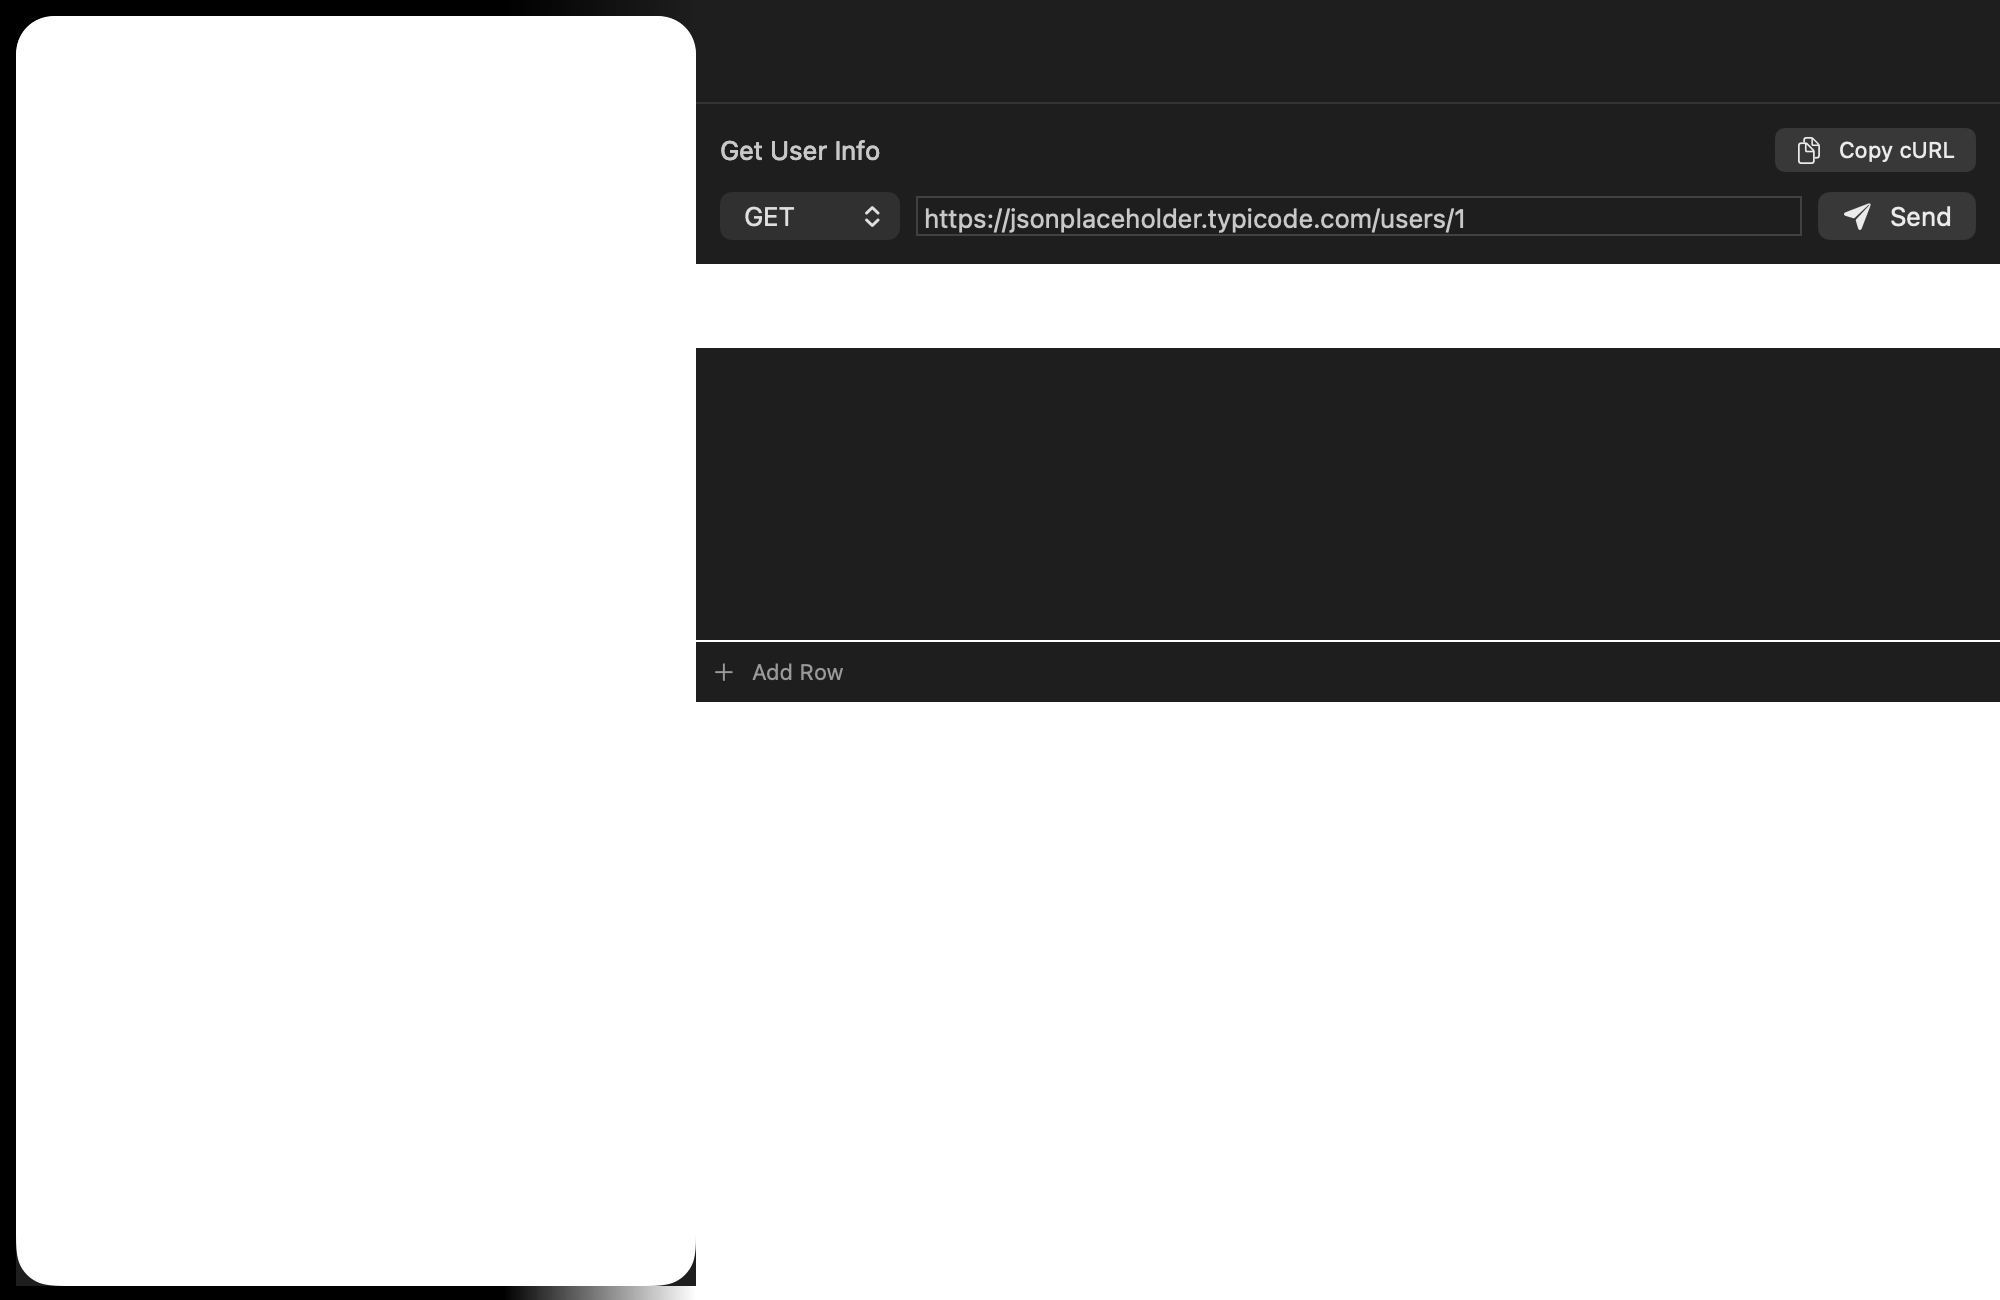
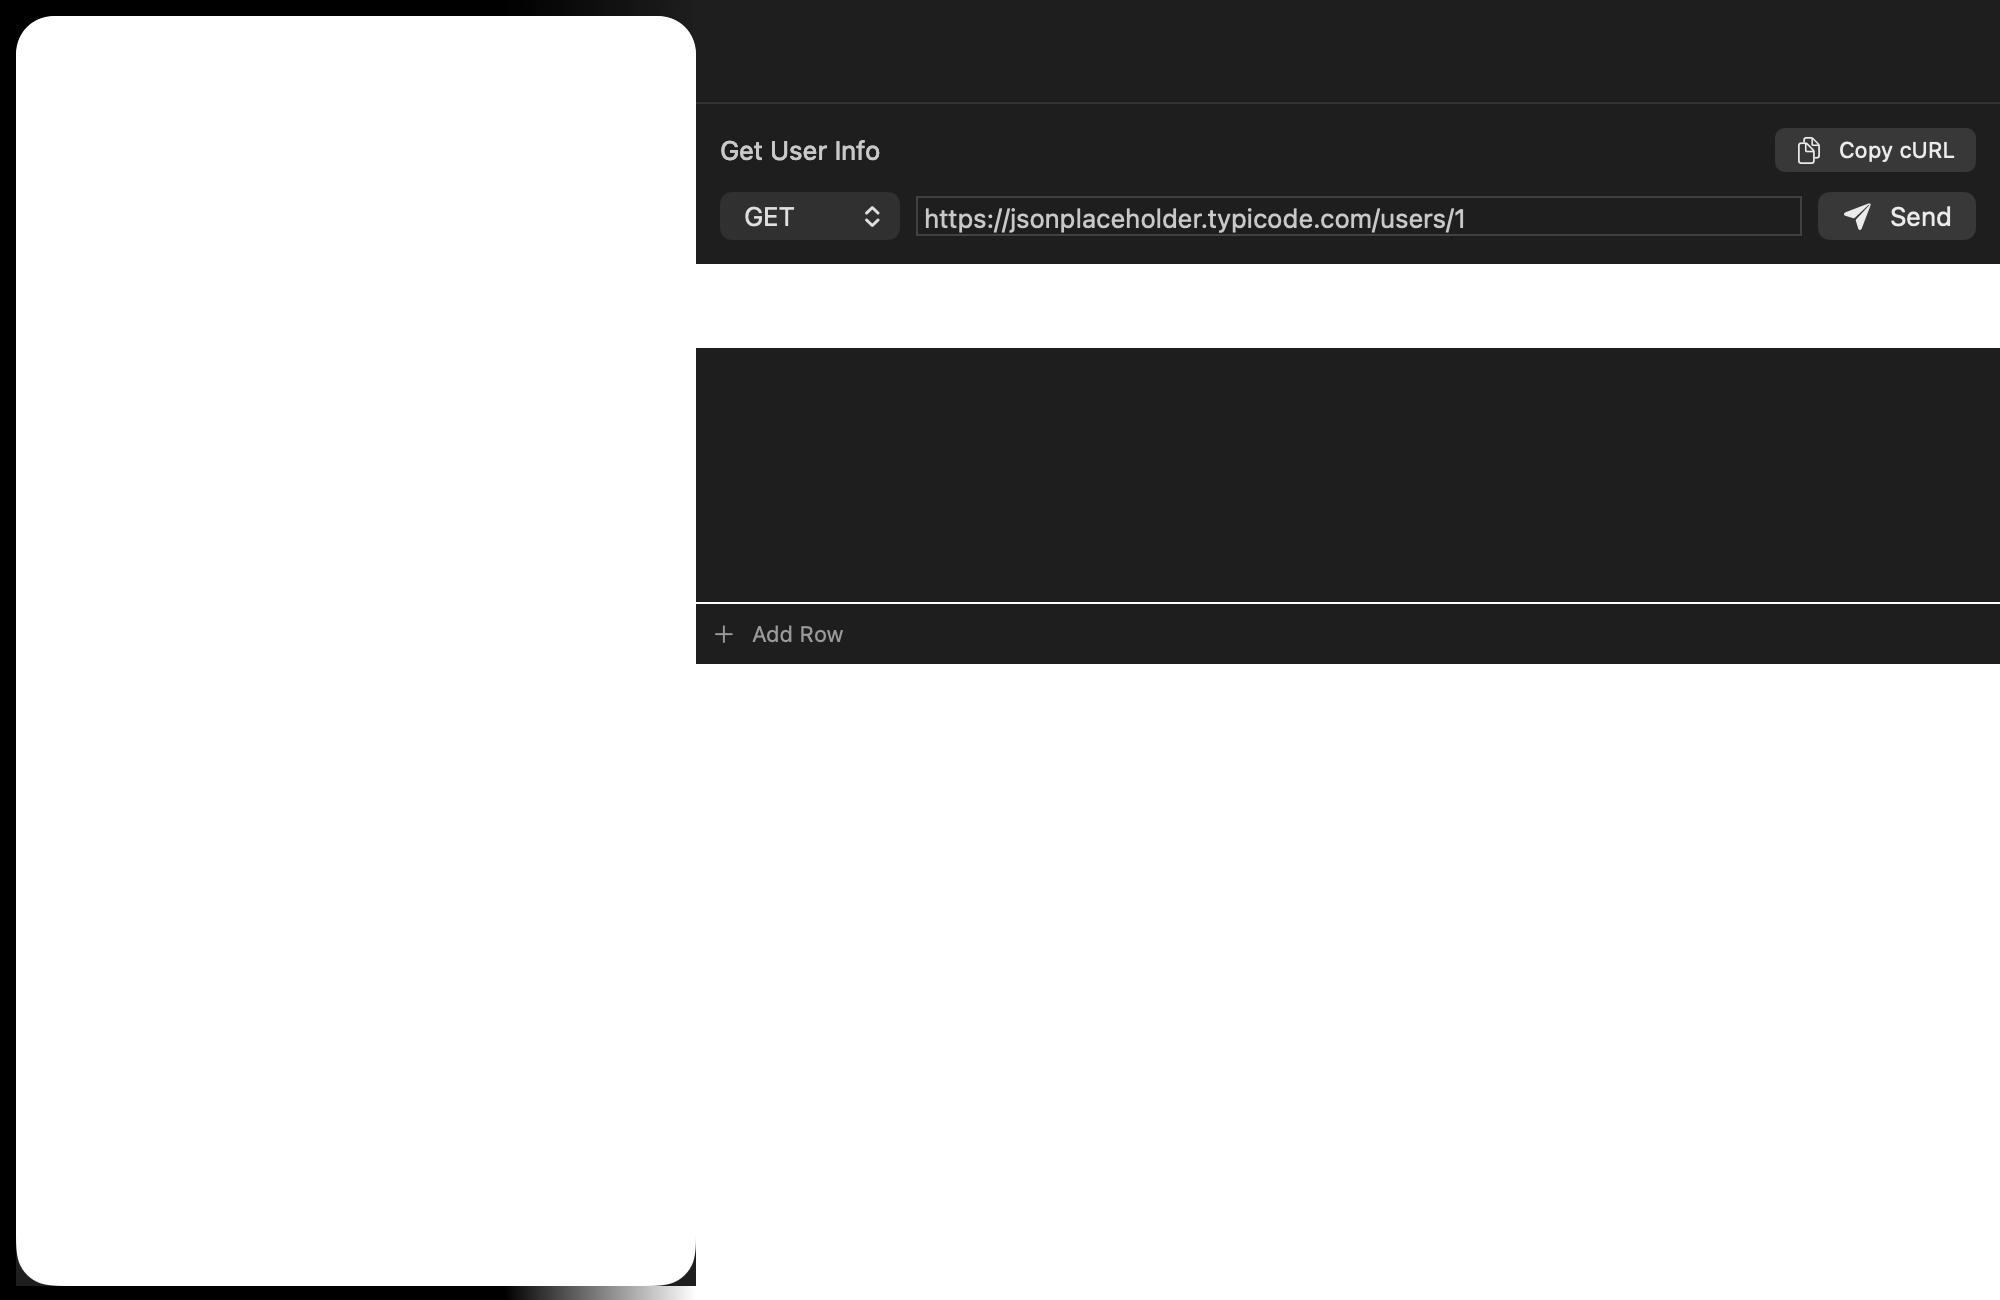
Add resizable draggable dividers across all panes and update Execute Tool button to green with tooltip

Changed region(s): [[0.341, 0.4615, 1.0, 0.5538]]

diff --git a/Sources/Post/Views/Components/DraggableDivider.swift b/Sources/Post/Views/Components/DraggableDivider.swift
@@ -1,0 +1,74 @@
+import SwiftUI
+import AppKit
+
+public struct DraggableDivider: View {
+    @Binding public var width: CGFloat
+    public var minWidth: CGFloat
+    public var maxWidth: CGFloat
+
+    public init(width: Binding<CGFloat>, minWidth: CGFloat = 180, maxWidth: CGFloat = 500) {
+        self._width = width
+        self.minWidth = minWidth
+        self.maxWidth = maxWidth
+    }
+
+    public var body: some View {
+        ZStack {
+            Rectangle()
+                .fill(Color(nsColor: .separatorColor))
+                .frame(width: 1)
+        }
+        .frame(width: 7)
+        .contentShape(Rectangle())
+        .onHover { inside in
+            if inside {
+                NSCursor.resizeLeftRight.push()
+            } else {
+                NSCursor.pop()
+            }
+        }
+        .gesture(
+            DragGesture(minimumDistance: 1)
+                .onChanged { value in
+                    let newWidth = width + value.translation.width
+                    width = max(minWidth, min(maxWidth, newWidth))
+                }
+        )
+    }
+}
+
+public struct DraggableHeightDivider: View {
+    @Binding public var height: CGFloat
+    public var minHeight: CGFloat
+    public var maxHeight: CGFloat
+
+    public init(height: Binding<CGFloat>, minHeight: CGFloat = 150, maxHeight: CGFloat = 600) {
+        self._height = height
+        self.minHeight = minHeight
+        self.maxHeight = maxHeight
+    }
+
+    public var body: some View {
+        ZStack {
+            Rectangle()
+                .fill(Color(nsColor: .separatorColor))
+                .frame(height: 1)
+        }
+        .frame(height: 7)
+        .contentShape(Rectangle())
+        .onHover { inside in
+            if inside {
+                NSCursor.resizeUpDown.push()
+            } else {
+                NSCursor.pop()
+            }
+        }
+        .gesture(
+            DragGesture(minimumDistance: 1)
+                .onChanged { value in
+                    let newHeight = height + value.translation.height
+                    height = max(minHeight, min(maxHeight, newHeight))
+                }
+        )
+    }
+}

diff --git a/Sources/Post/Views/MCPInspectorView.swift b/Sources/Post/Views/MCPInspectorView.swift
@@ -12,6 +12,7 @@ struct MCPInspectorView: View {
     @State private var toolResultText: String = ""
     @State private var toolResultError: Bool = false
     @State private var executionDurationMs: Double = 0.0
+    @State private var toolsListWidth: CGFloat = 260
 
     var selectedServer: MCPServer? {
         store.mcpServers.first(where: { $0.id == store.selectedMCPServerID })
@@ -86,9 +87,9 @@ struct MCPInspectorView: View {
                     }
                     .listStyle(.inset)
                 }
-                .frame(width: 260)
+                .frame(width: toolsListWidth)
 
-                Divider()
+                DraggableDivider(width: $toolsListWidth, minWidth: 180, maxWidth: 500)
 
                 // Right Tool Execution & Result Inspector
                 if let tool = toolsList.first(where: { $0.name == selectedToolName }) {
@@ -108,7 +109,7 @@ struct MCPInspectorView: View {
                                     await callTool(name: tool.name)
                                 }
                             }) {
-                                HStack {
+                                HStack(spacing: 6) {
                                     if isExecutingTool {
                                         ProgressView().controlSize(.small)
                                     } else {
@@ -116,10 +117,12 @@ struct MCPInspectorView: View {
                                     }
                                     Text("Execute Tool")
                                 }
+                                .padding(.horizontal, 4)
                             }
                             .focusable(false)
                             .buttonStyle(.borderedProminent)
-                            .tint(.purple)
+                            .tint(.green)
+                            .help("Execute Tool (JSON-RPC tools/call)")
                             .disabled(isExecutingTool)
                         }
                         .padding(12)

diff --git a/Sources/Post/Views/WebhookServerView.swift b/Sources/Post/Views/WebhookServerView.swift
@@ -4,6 +4,7 @@ struct WebhookServerView: View {
     @ObservedObject var store: PostStore
     @ObservedObject var server: WebhookServer
     @State private var selectedPayloadID: UUID?
+    @State private var payloadsListWidth: CGFloat = 260
 
     init(store: PostStore) {
         self.store = store
@@ -91,10 +92,10 @@ struct WebhookServerView: View {
                         .tag(payload.id)
                     }
                 }
-                .frame(width: 260)
+                .frame(width: payloadsListWidth)
                 .listStyle(.inset)
 
-                Divider()
+                DraggableDivider(width: $payloadsListWidth, minWidth: 180, maxWidth: 500)
 
                 // Right Payload Inspector
                 if let payload = store.webhookServer.payloads.first(where: { $0.id == selectedPayloadID }) {

diff --git a/Sources/Post/Views/MainContentView.swift b/Sources/Post/Views/MainContentView.swift
@@ -2,6 +2,7 @@ import SwiftUI
 
 struct MainContentView: View {
     @StateObject var store: PostStore
+    @State private var requestPaneHeight: CGFloat = 280
 
     init(store: PostStore = PostStore()) {
         _store = StateObject(wrappedValue: store)
@@ -24,7 +25,8 @@ struct MainContentView: View {
             if let reqBinding = Binding($store.selectedRequest) {
                 VStack(spacing: 0) {
                     RequestBuilderView(store: store, request: reqBinding)
-                    Divider()
+                        .frame(height: requestPaneHeight)
+                    DraggableHeightDivider(height: $requestPaneHeight, minHeight: 180, maxHeight: 550)
                     ResponseView(response: store.activeResponse)
                 }
             } else {
